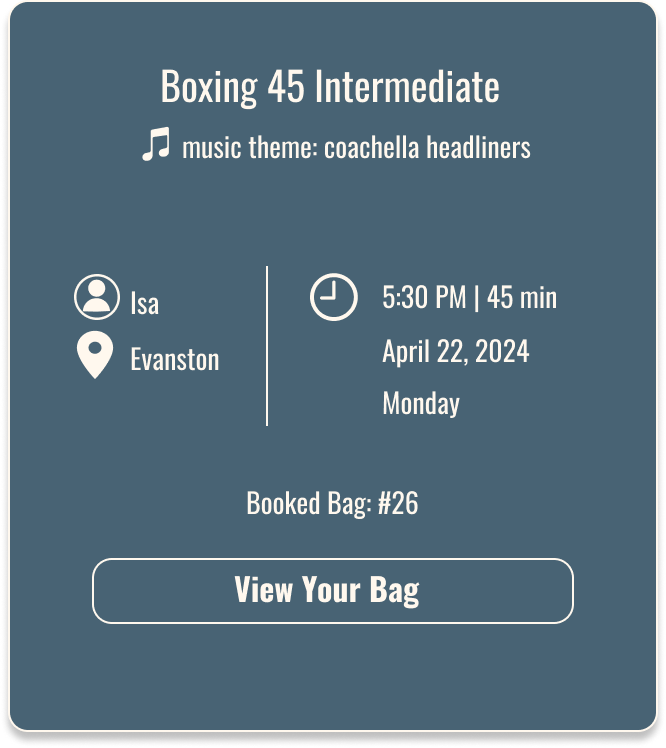
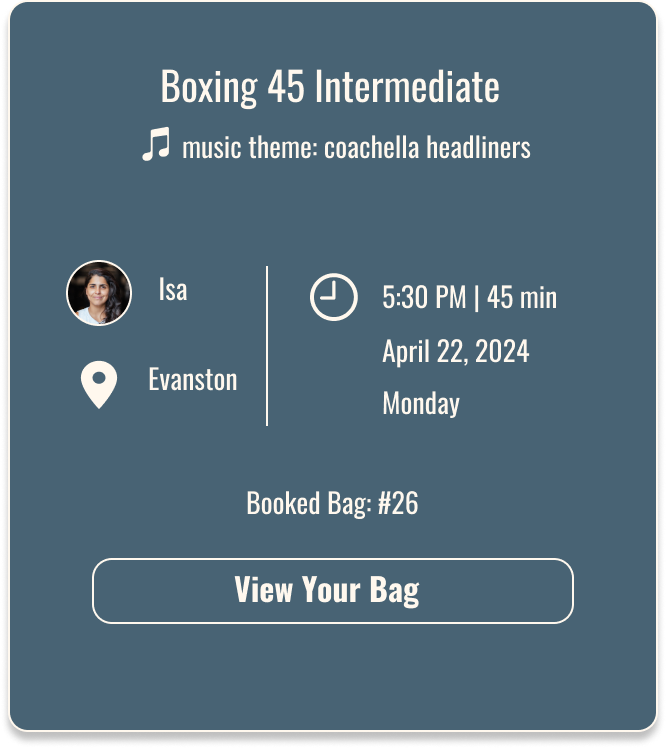
CSS styling updates
background color, updated booking summary image, re-aligned js

Changed region(s): [[0.0901, 0.3382, 0.3604, 0.5535], [0.2402, 0.369, 0.3003, 0.3997]]

diff --git a/Home.html b/Home.html
@@ -58,36 +58,37 @@
             <p class="yuc-text mt-3">Your Upcoming Classes:</p>
         </div>
         <div class="d-flex flex-row cardcontainer">
-            <div class="card classescard border border-dark rounded-3 mx-1" style="width: 8rem;">
+            <div class="card classescard classescard1 border border-dark rounded-3 mx-1" style="width: 8rem";
+                onclick="on()">
                 <a href="#" class="text-light text-decoration-none">
                     <div class="card-body">
-                        <h5 class="card-title fw-normal">Friday</h5>
-                        <h6 class="card-subtitle mb-2 fw-normal">4/15</h6>
-                        <p class="card-text">Boxing 45<br>
-                            9:30 AM</br></p>
+                        <h5 class="card-title fw-normal">Monday</h5>
+                        <h6 class="card-subtitle mb-2 fw-normal">4/22</h6>
+                        <p class="card-text">Boxing 45 Int.<br>
+                            5:30 PM</br></p>
                 </a>
             </div>
         </div>
 
-        <div class="card classescard border border-dark rounded-3 mx-1" style="width: 8rem;">
+        <div class="card classescard classescard2 border rounded-3 mx-1" style="width: 8rem;">
             <a href="#" class="text-light text-decoration-none">
                 <div class="card-body">
-                    <h5 class="card-title fw-normal">Saturday</h5>
-                    <h6 class="card-subtitle mb-2 fw-normal">4/20</h6>
-                    <p class="card-text">Boxing 45<br>
-                        9:30 AM</br></p>
+                    <h5 class="card-title fw-normal"></h5>
+                    <h6 class="card-subtitle mb-2 fw-normal"></h6>
+                    <p class="card-text"><br>
+                        </br></p>
             </a>
         </div>
     </div>
 
-    <div class="card classescard border border-dark rounded-3 mx-1" style="width: 8rem;" id="confirmedbooking"
-        onclick="on()">
+    <div class="card classescard classescard3 border border-dark rounded-3 mx-1" style="width: 8rem;"
+       >
         <a href="#" class="text-light text-decoration-none">
             <div class="card-body">
-                <h5 class="card-title fw-normal">Monday</h5>
-                <h6 class="card-subtitle mb-2 fw-normal">4/22</h6>
-                <p class="card-text">Boxing 45 Int.<br>
-                    5:30 PM</br></p>
+                <h5 class="card-title fw-normal"></h5>
+                <h6 class="card-subtitle mb-2 fw-normal"></h6>
+                <p class="card-text"><br>
+                    </br></p>
         </a>
 
     </div>
@@ -174,6 +175,8 @@
     <!-- Footer Nav Start-->
 
 </body>
-<script src="https://code.jquery.com/jquery-3.7.1.js" integrity="sha256-eKhayi8LEQwp4NKxN+CfCh+3qOVUtJn3QNZ0TciWLP4=" crossorigin="anonymous"></script>
+<script src="https://code.jquery.com/jquery-3.7.1.js" integrity="sha256-eKhayi8LEQwp4NKxN+CfCh+3qOVUtJn3QNZ0TciWLP4="
+    crossorigin="anonymous"></script>
 <script src="js/index.js"></script>
+
 </html>

diff --git a/css/style.css b/css/style.css
@@ -1,6 +1,6 @@
 body {
     font-family: "Oswald", "roboto", sans;
-    background: linear-gradient(#142936, #0B1820);
+    background: linear-gradient(#0D1A22, #081923);
     color: #FFF8EE;
     width: 393px !important;
   
@@ -17,7 +17,7 @@ header {
 
 /*Header Nav CSS End*/
 
-/*Index.html CSS Start*/
+/*Home.html CSS Start*/
 .welcome {
     margin-top: 1rem;
 }
@@ -44,7 +44,14 @@ header {
  
 }
 
-.classescard {
+.classescard2, .classescard3 {
+    margin-left: 11px;
+    background-color: 223038;
+    opacity: 0.75 !important;
+    border-style: dashed !important;
+    border-color: 757575 !important;
+}
+.classescard1{
     margin-left: 11px;
     background: linear-gradient(#486374, #0F1924);
 }
@@ -66,14 +73,14 @@ header {
 
 .btn-sm {
     width: 177px;
-    height: 55px;
+    height: 65px;
     background: linear-gradient(#920F3A, #CD0031);
     font-size: 20px;
     color: #FFF8EE;
 }
 
 .btn-lg {
-    height: 80px;
+    height: 90px;
     background: linear-gradient(#920F3A, #CD0031);
     font-size: 32px;
     color:#FFF8EE;
@@ -88,14 +95,14 @@ header {
 .contentcard1{
   
 }
-/*Index.html CSS End*/
+/*Home.html CSS End*/
 
 
 
 
 /*BookingMenu.html CSS Start*/
 .myclassescard{
-  background-color: FFF8EE; 
+  background-color: #343b3d; 
   margin-top: 1rem;
 
 }
@@ -105,15 +112,17 @@ header {
 #overlay {
     position: fixed; /* Sit on top of the page content */
     display: none; /* Hidden by default */
-width: 18%;
-height: 50%;
+width: 19%;
+height: 45%;
     background-color: rgba(0,0,0,0.5); /* Black background with opacity */
     z-index: 2; /* Specify a stack order in case you're using a different order for other elements */
     cursor: pointer; /* Add a pointer on hover */
     top: 49%;
-  left: 49.15%;
+  left: 49.5%;
   transform: translate(-50%, -50%);
 }
+
+
 
 .mngbagstitle, .mngbagsdescr {
     margin-left: 2rem;
@@ -135,20 +144,30 @@ margin-left: 8rem;
 
 /*BookingMenu.html CSS End*/
 
-/*ConfirmedBooking.html CSS Start*/
+/*index.html (Confirmed Booking) CSS Start*/
 .bookingsummary{
     margin-left: 17px;
 }
-.donebtn{
+.confirmedbookingbtn{
     background: linear-gradient(#1B6C86, #CD0031);  
     height: 55px;
     width: 255px;
     color: #FFF8EE;
     font-size: 25px;
-    margin-left: 60px;
+    margin-left: 65px;
+}
+.confirmedbookingp {
+    margin-left: 40px; 
 }
 
-/*ConfirmedBooking.html CSS End*/
+
+.jumbotronh1{
+    margin-top: 30%;
+    font-weight: bold;
+    padding-bottom: 20px;
+    margin-left: 35px;
+}
+/*index.html (Confirmed Booking) CSS End*/
 
 
 

diff --git a/BookingMenu.html b/BookingMenu.html
@@ -50,18 +50,18 @@
 
         </div>
         <div class="d-flex flex-row justify-content-center mngclassescontainer">
-            <div class="card myclassescard brounded-3 mx-1" style="width: 6rem;">
-                <a href="#" class="text-dark text-decoration-none">
+            <div class="card myclassescard border-light brounded-3 mx-1" style="width: 6rem;">
+                <a href="#" class="text-light text-decoration-none">
                     <div class="card-body">
-                        <h5 class="card-title fw-normal mx-4">3</h5>
+                        <h5 class="card-title fw-normal mx-4">0</h5>
                         <h5 class="card-subtitle mb-2 mx-2 fw-normal">Past</h5>
                         <h5 class="card-text mx-2 fw-normal">Bags</h5>
                 </a>
             </div>
         </div>
 
-        <div class="card myclassescard brounded-3 mx-1" style="width: 6rem;" id="confirmedbooking" onclick="on()">
-            <a href="#" class="text-dark text-decoration-none">
+        <div class="card myclassescard border-light brounded-3 mx-1" style="width: 6rem;" id="confirmedbooking" onclick="on()">
+            <a href="#" class="text-light text-decoration-none">
                 <div class="card-body" >
                     <h5 class="card-title fw-normal mx-4">1</h5>
                     <h5 class="card-subtitle mb-2 mx-1 fw-normal">Booked</h5>
@@ -74,8 +74,8 @@
         <img src="images\Booking Summary.png" alt="" width="350">
     </div>
 
-    <div class="card myclassescard brounded-3 mx-1" style="width: 6rem;">
-        <a href="#" class="text-dark text-decoration-none">
+    <div class="card myclassescard border-light brounded-3 mx-1" style="width: 6rem;">
+        <a href="#" class="text-light text-decoration-none">
             <div class="card-body">
                 <h5 class="card-title fw-normal mx-4">0</h5>
                 <h5 class="card-subtitle mb-2 mx-1 fw-normal">Future</h5>

diff --git a/index.html b/index.html
@@ -37,7 +37,7 @@
     <!-- You are All Set Start -->
     <div class="container-fluid welcome">
         <div class="jumbotron">
-            <h1 class="display-6 welcomeh1-booking">You are all set!</h1>
+            <h1 class="display-6 jumbotronh1">YOU ARE ALL SET!</h1>
         </div>
         <hr style="height:2px;border-width:0;color:#fff8ee;">
     </div>
@@ -53,10 +53,11 @@
 
     <!-- "Done" Button section Start -->
 
-    <div class="donebtnandmsg">
+    <div class="confirmedbookingbtnandmsg">
         <a href="BookingMenu.html">
-            <button type="button" class="btn mt-3 border-0 rounded-5 donebtn">DONE</button>
+            <button type="button" class="btn mt-3 border-0 rounded-5 confirmedbookingbtn">BOOKING CONFIRMED!</button>  
         </a>
+        <P class="confirmedbookingp">View your Home page to see your upcoming classes!</P>    
     </div>
 
     </div>

diff --git a/js/index.js b/js/index.js
@@ -1,14 +1,5 @@
 
-/*$("#confirmedbooking").on("click",function(){
-    $(document).getElementById("overlay").addClass("active");
-/*
-if($("")){
 
-}
-
-
-});
-*/
 
 function on() {
   document.getElementById("overlay").style.display = "block";
